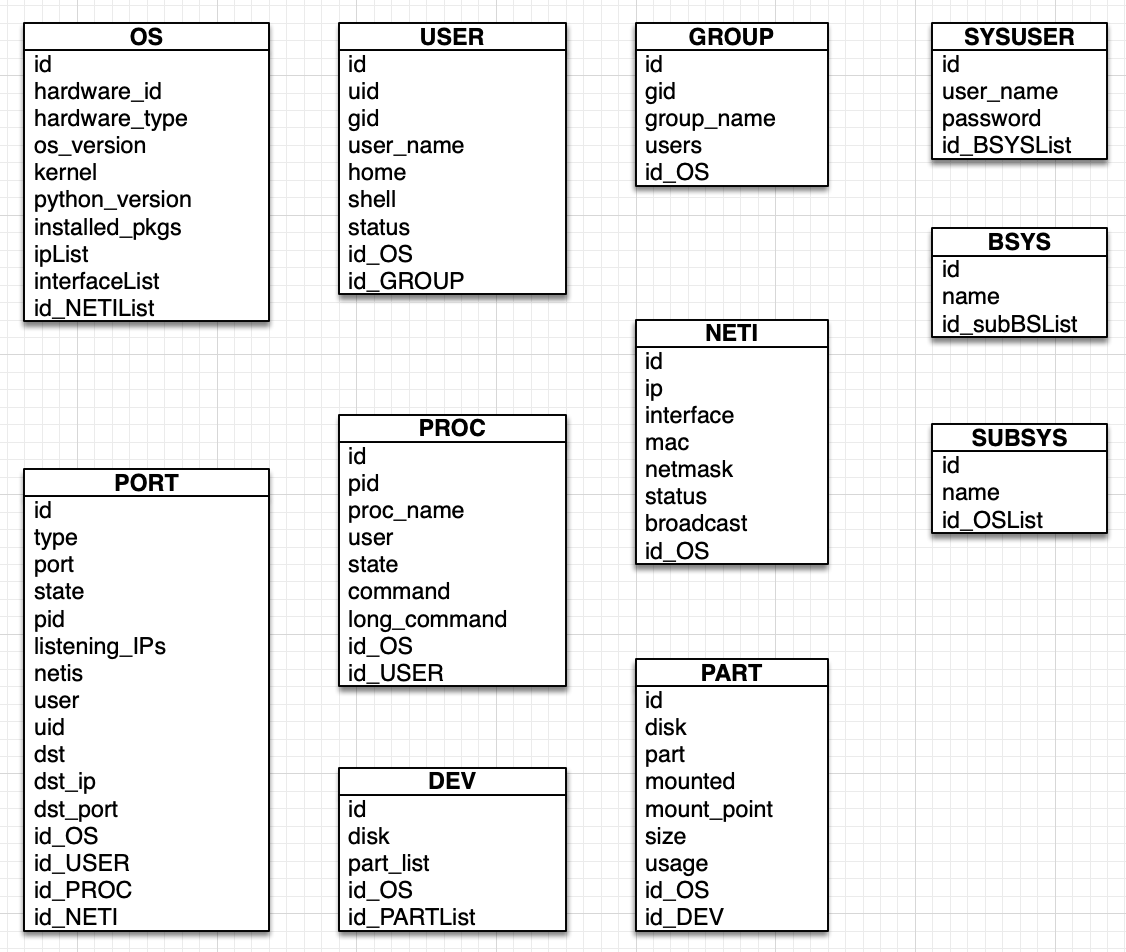
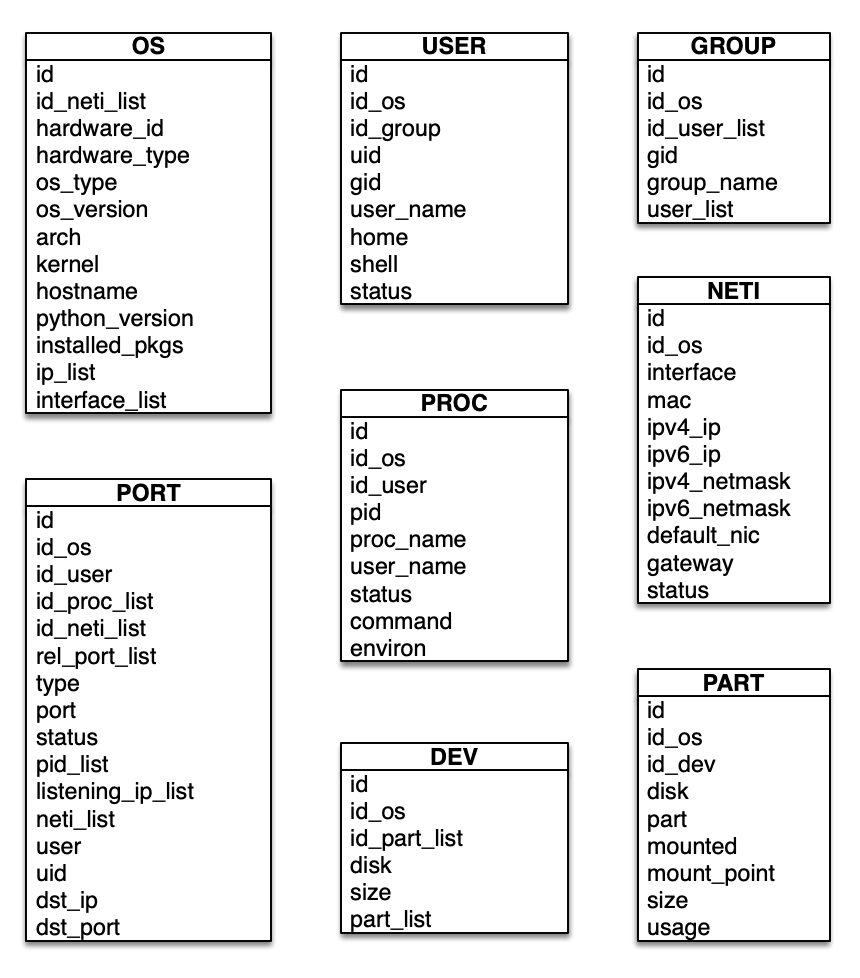
upload new cmdb_ds

Changed region(s): [[0.0, 0.0, 0.9977, 1.0]]

diff --git a/CMDB/README.md b/CMDB/README.md
@@ -84,7 +84,7 @@
 |rel_port_list|REL-PORT-LISTENING-${LISTENING_IP}-${TYPE}-${PORT}\|REL-PORT-CLIENT-${SERVER_IP}-${TYPE}-${SERVER_PORT}|REL-PORT-LISTENING-1.1.1.1-TCP-22\|REL-PORT-CLIENT-1.1.1.1-TCP-22|PORT RELATIONS|rel_port|
 |type|lsof -i -n -P\|netstat -luntp|TCP\|UDP|run command, different command between hardware os and docker||
 |port|lsof -i -n -P\|netstat -luntp|22|run command, different command between hardware os and docker||
-|state|lsof -i -n -P\|netstat -luntp|LISTENING\|ESTABLISHED|run command, different command between hardware os and docker||
+|status|lsof -i -n -P\|netstat -luntp|LISTENING\|ESTABLISHED|run command, different command between hardware os and docker||
 |pid_list|lsof -i -n -P|4679|run command, still not find a best way to docker host||
 |listening_ip_list|lsof -i -n -P\|netstat -luntp|1.1.1.1, 2.2.2.2|need to match with $(ifconfig -a \| ip addr list)||
 |neti_list|ifconfig -a \| ip addr list|en9, en10|run command||
@@ -177,3 +177,11 @@
 
 - I just write a Dockerfile and boot script in `ansible/`. You can read the README.md file, and boot it.
 - In the next steps, I will use ansible to deploy and run some scripts, to get data, and push them to a Queue.
+
+## RabbitMQ
+
+- I use RabbitMQ to receive and ETL to fetch data.
+
+## ETL
+
+- I use ETL to extract data from RabbitMQ, transform them into database struct, and insert them into database.

diff --git a/CMDB/etl/README.md b/CMDB/etl/README.md
@@ -1,2 +1,2 @@
 # Extract-Transform-Load
-- In etl model, we will extract data from RabbitMQ, transform them into database struct, and insert them into database.
+- In etl model, I will extract data from RabbitMQ, transform them into database struct, and insert them into database.
